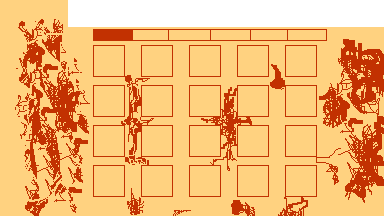
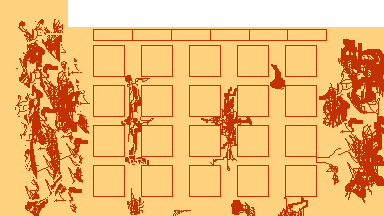
making inv sections

Changed region(s): [[0.2188, 0.1389, 0.3438, 0.1944], [0.625, 0.1389, 0.6562, 0.1944], [0.4375, 0.1389, 0.4688, 0.1944]]

diff --git a/GarbagemanDemo/core/src/com/garbageman/game/UI.java b/GarbagemanDemo/core/src/com/garbageman/game/UI.java
@@ -64,6 +64,9 @@ public class UI {
     private Actor rotBarBack, rotBarBar;
     private float rotBarY = 10;//by default; gets reset to pos of rotText
     private Trash infoItem;
+    private int numTopButtons = 6;
+    private float topButtonsStartX, topButtonsStartY ;
+    private ArrayList<Label> topButtons = new ArrayList<Label>();
 
 
     /*
@@ -240,11 +243,40 @@ public class UI {
         //inv.add(rotBarBack);
         this.rotBarBar = makeRect((int)(invInfo.getWidth()*.1), (int)rotBarY, (int)(rotBarBack.getWidth()*.8), (int)invInfo.getHeight()/16, Color.valueOf("#f49542"), false);
         stage.addActor(rotBarBar);
+        this.rotBarBar.toFront();
+        this.rotBarBack.toFront();
         //inv.add(rotBarBar);
 
         this.rotBarBack.setVisible(false);
         this.rotBarBar.setVisible(false);
 
+        //make topbuttons
+        topButtonsStartX = 310;//for now
+        topButtonsStartY = stage.getHeight()-137;
+        final Actor img = makeRect((int)topButtonsStartX, (int)topButtonsStartY, 130, 37, Color.valueOf("#c33101"), true);
+        Label.LabelStyle smallTopSize = new Label.LabelStyle();
+        smallTopSize.font = game.makeFont(17);
+        float curPos = img.getX();
+        for (int i = 0; i < numTopButtons; i++){
+            topButtons.add(i, new Label(game.sectionsForMainInv[i], smallTopSize));
+            final Label local = topButtons.get(i);
+            stage.addActor(local);
+            local.setVisible(true);
+            local.setBounds(curPos, img.getY(), img.getWidth(), img.getHeight());
+            curPos = curPos + img.getWidth();
+            local.setWrap(true);
+            local.setAlignment(Align.center);
+            local.toFront();
+            local.addListener(new InputListener(){
+                @Override
+                public boolean touchDown(InputEvent event, float x, float y, int pointer, int button) {
+
+                    img.setX(local.getX());
+                    return true;
+                }
+            });
+
+        }
 
        //createLabels();
         upInv();
@@ -256,8 +288,8 @@ public class UI {
 
     public void upInv(){//update the inventory display when an item is changed
         int size = 128;
-        int startX = 200;
-        int yPos = game.window_height-350;
+        int startX = 260;
+        int yPos = game.window_height-290;
         int yPlus = size+15;
         int xPos = startX;
         int xPlus = size+30;
@@ -291,7 +323,7 @@ public class UI {
                             ibStyle.imageUp.setMinWidth(size);
                             final ImageButton localB = new ImageButton(ibStyle);
                             localB.setBounds(xPos + 25, yPos, size, size);
-                            localB.setSize(256, 256);
+                            localB.setSize(256/2, 256/2);
 
                             //System.out.println("INFO: "+item.name+", "+item.rarity);
 
@@ -520,7 +552,7 @@ public class UI {
                         Label local = infoLabels.get(x);
                         local.setText(curInfoList.get(x));
                         local.setWrap(true);
-                        System.out.println("BAS EIMG "+infoItem.baseImgName);
+                        //System.out.println("BAS EIMG "+infoItem.baseImgName);
                         if (x == 2) {
                             //System.out.println(local.getText());
                             local.setColor(game.colorMap.get(infoLabels.get(x).getText().toString()));
